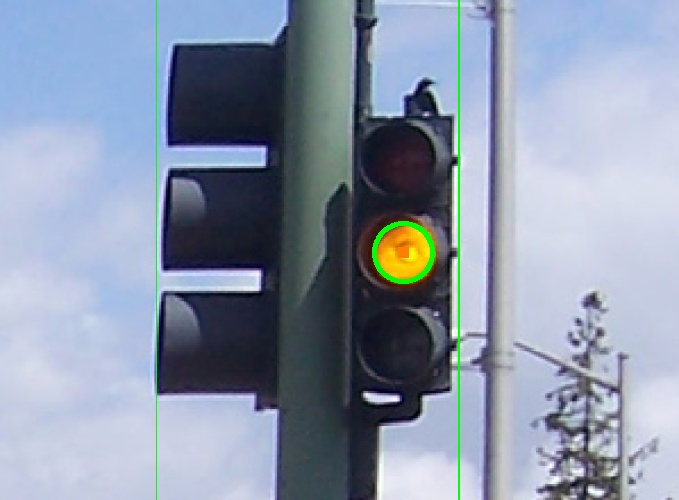
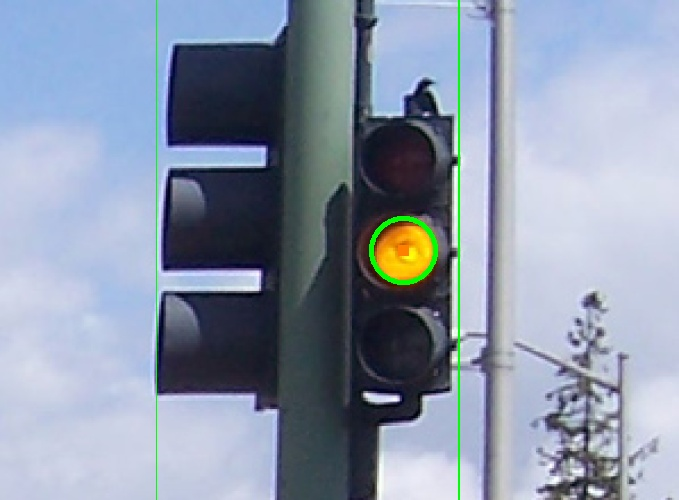
Updated user feedback

Changed region(s): [[0.5258, 0.42, 0.6495, 0.57]]

diff --git a/FinalVersion.py b/FinalVersion.py
@@ -145,9 +145,7 @@ def findTrafficLight(img):
     upper_red2 = np.array([180,255,255])
     lower_green = np.array([40,140,90])
     upper_green = np.array([90,255,255])
-    # lower_yellow = np.array([15,100,100])
-    # upper_yellow = np.array([35,255,255])
-    lower_yellow = np.array([15,210,170])#lower_yellow = np.array([15,150,150])
+    lower_yellow = np.array([15,150,150])
     upper_yellow = np.array([35,255,255])
     mask1 = cv2.inRange(hsv, lower_red1, upper_red1)
     mask2 = cv2.inRange(hsv, lower_red2, upper_red2)
@@ -157,7 +155,7 @@ def findTrafficLight(img):
     #cv2.imshow('img', img)
     ##cv2.imshow('maskg', maskg)
     ##cv2.imshow('masky', masky)
-    ##cv2.imshow('maskr', maskr)
+    #cv2.imshow('maskr', maskr)
     ##cv2.imshow("g", np.hstack([img, maskg]))
     ##cv2.imshow("r", np.hstack([img, maskr]))
     ##cv2.imshow("y", np.hstack([img, masky]))
@@ -285,6 +283,7 @@ while True:
     count = 0
     file_input_name = args["input"]
     args["input"] = input_file_location + args["input"]
+    
     #loop through accepted filetypes and ensure that the inputted file ends with one of these
     if path.exists(args["input"]):
         for filetype in range(len(accepted_filetype)) :
@@ -352,7 +351,6 @@ while True:
         tmpName = file_input_name.split(filetype_used)
         tmpName[len(tmpName)-2] += "output"
         fileOutputName = output_file_location + tmpName[len(tmpName)-2] + filetype_used
-        print(fileOutputName)
 
         print("Press w to write output to current directory or space to continue")
         key = cv2.waitKey(0)
